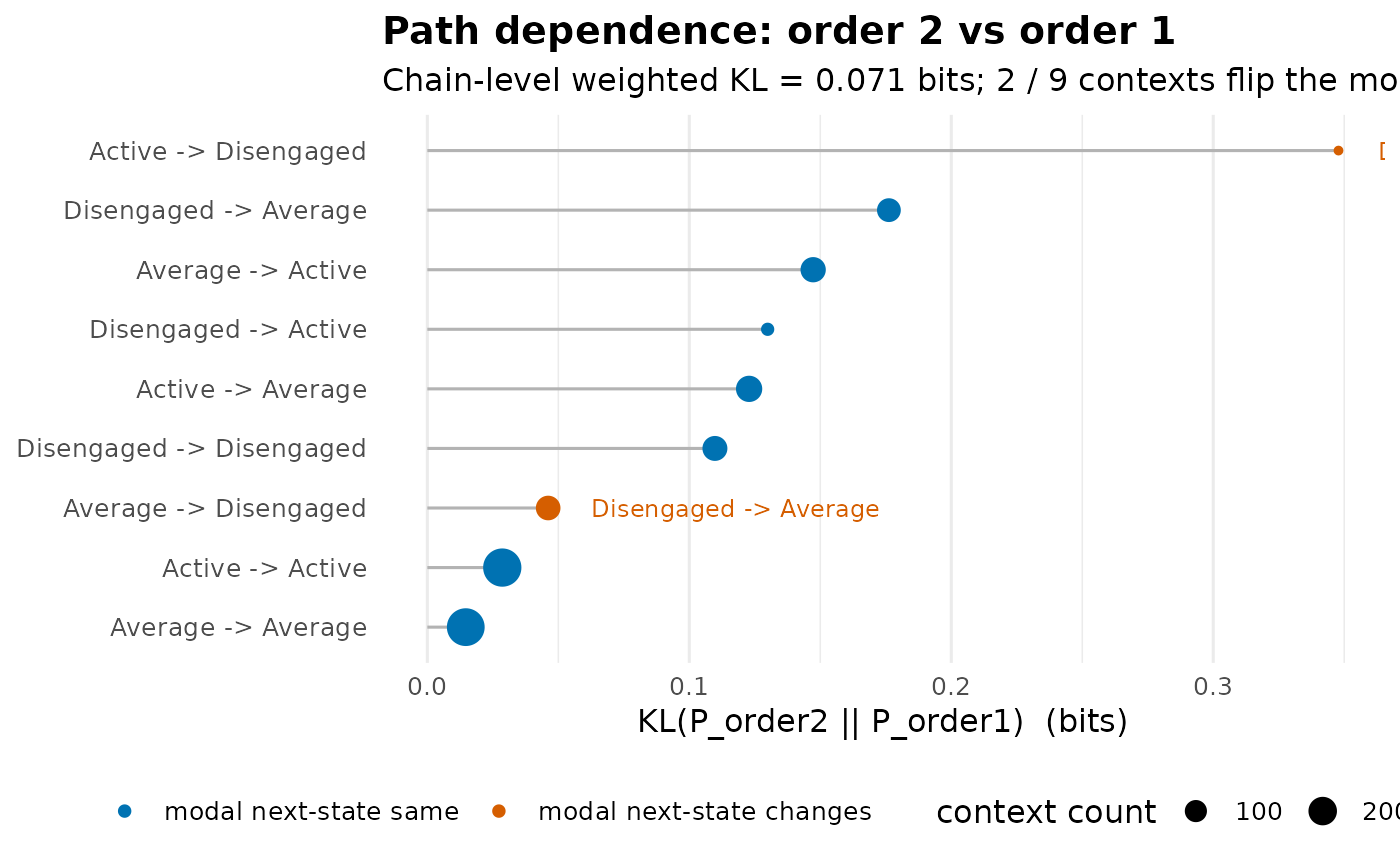
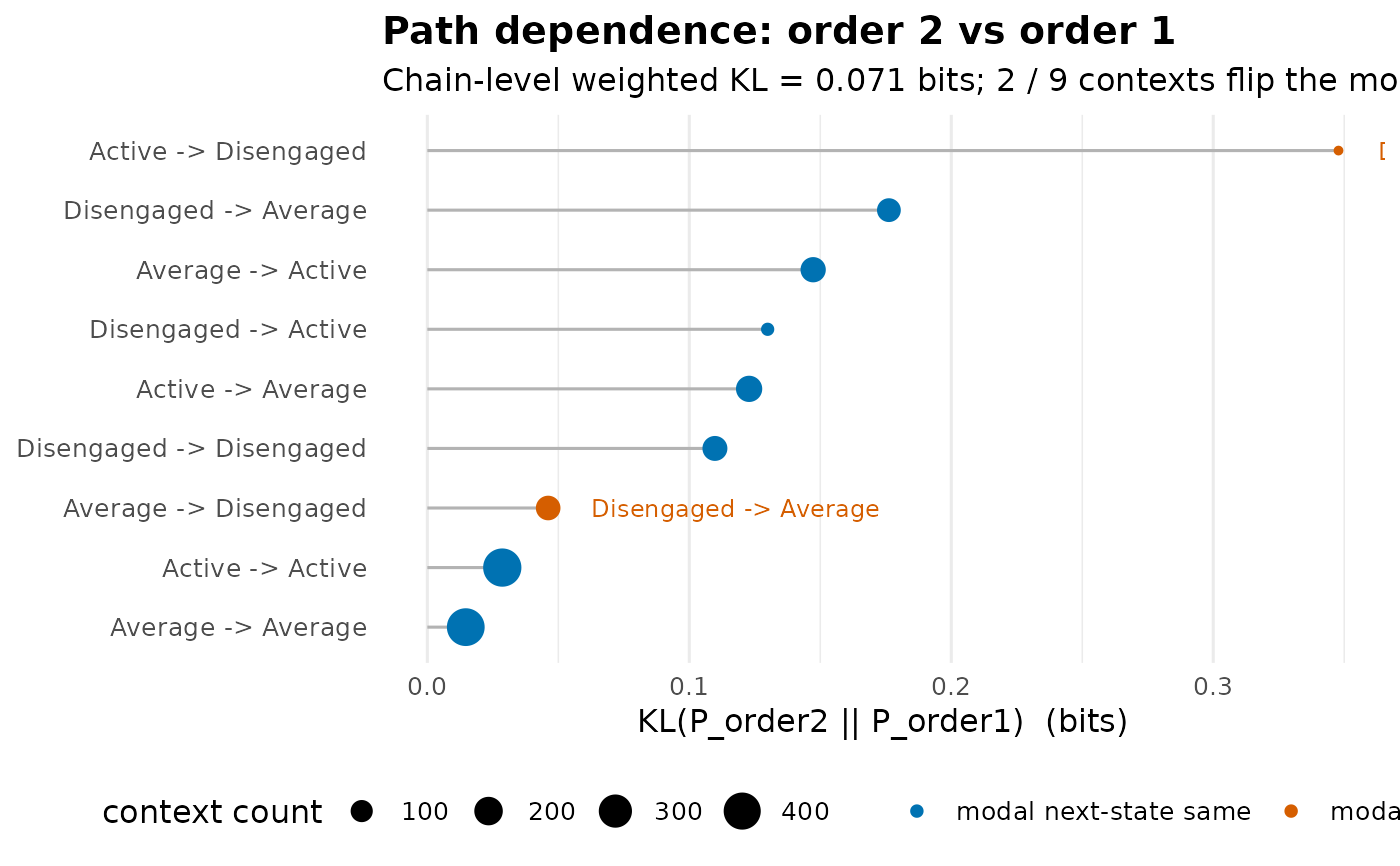
Deploying to gh-pages from @ mohsaqr/Nestimate@1bd6695195da9ab3795ea179bbce8c204ecab844 🚀

Changed region(s): [[0.0614, 0.9042, 0.6143, 0.9665], [0.645, 0.9042, 1.0, 0.9665]]

diff --git a/reference/sequence_plot.html b/reference/sequence_plot.html
@@ -82,6 +82,7 @@ thin gaps (no dendrogram). Supports grouping via <code>group</code> or a
 <span>  scale <span class="op">=</span> <span class="fu"><a href="https://rdrr.io/r/base/c.html" class="external-link">c</a></span><span class="op">(</span><span class="st">"proportion"</span>, <span class="st">"count"</span><span class="op">)</span>,</span>
 <span>  geom <span class="op">=</span> <span class="fu"><a href="https://rdrr.io/r/base/c.html" class="external-link">c</a></span><span class="op">(</span><span class="st">"area"</span>, <span class="st">"bar"</span><span class="op">)</span>,</span>
 <span>  na <span class="op">=</span> <span class="cn">TRUE</span>,</span>
+<span>  normalize <span class="op">=</span> <span class="cn">FALSE</span>,</span>
 <span>  row_gap <span class="op">=</span> <span class="fl">0</span>,</span>
 <span>  dendrogram_width <span class="op">=</span> <span class="fl">1.2</span>,</span>
 <span>  k <span class="op">=</span> <span class="cn">NULL</span>,</span>
@@ -140,6 +141,16 @@ and <code>$assignments</code>.</p></dd>
 <dt>tna</dt>
 <dd><p>From the tna package. Decodes integer-encoded sequences.</p></dd>
 
+<dt>mcml</dt>
+<dd><p>From <code><a href="build_mcml.html">build_mcml</a></code> (built from sequences).
+Produces a <strong>multichannel</strong> plot: one panel per cluster plus a
+macro <code>Summary</code> panel. <code>type = "heatmap"</code>/<code>"index"</code>
+draw the carpet (each channel's own states solid, other clusters a
+faded wash); <code>type = "distribution"</code> draws the stacked
+distribution (add <code>normalize = TRUE</code> for a TraMineR-style
+<code>seqdplot</code> where each time point sums to 1). Returns a
+<code>ggplot</code> object.</p></dd>
+
 
 </dl></dd>
 
@@ -170,6 +181,13 @@ one facet per group. Index/distribution only. Ignored for heatmap.</p></dd>
 <dt id="arg-scale-geom-na">scale, geom, na<a class="anchor" aria-label="anchor" href="#arg-scale-geom-na"></a></dt>
 <dd><p>Passed to <code><a href="distribution_plot.html">distribution_plot</a></code> when
 <code>type = "distribution"</code>.</p></dd>
+
+
+<dt id="arg-normalize">normalize<a class="anchor" aria-label="anchor" href="#arg-normalize"></a></dt>
+<dd><p><code>mcml</code> + <code>type = "distribution"</code> only. When
+<code>TRUE</code>, each time point is normalised to sum to 1 within its channel
+(TraMineR-style <code>seqdplot</code> composition); when <code>FALSE</code> (default)
+the stack shows prevalence and is capped with an <code>NA</code> band.</p></dd>
 
 
 <dt id="arg-row-gap">row_gap<a class="anchor" aria-label="anchor" href="#arg-row-gap"></a></dt>
@@ -286,12 +304,14 @@ from the device width so the legend looks proportional at 5 in vs
 </dl></div>
     <div class="section level2">
     <h2 id="value">Value<a class="anchor" aria-label="anchor" href="#value"></a></h2>
-    <p>Invisibly, a list describing the plot (shape depends on
-<code>type</code>).</p>
+    <p>For base-graphics types, invisibly a list describing the plot
+(shape depends on <code>type</code>). For an <code>mcml</code> input, a <code>ggplot</code>
+object.</p>
     </div>
     <div class="section level2">
     <h2 id="see-also">See also<a class="anchor" aria-label="anchor" href="#see-also"></a></h2>
-    <div class="dont-index"><p><code><a href="distribution_plot.html">distribution_plot</a></code>, <code><a href="build_clusters.html">build_clusters</a></code></p></div>
+    <div class="dont-index"><p><code><a href="distribution_plot.html">distribution_plot</a></code>, <code><a href="build_clusters.html">build_clusters</a></code>,
+<code><a href="build_mcml.html">build_mcml</a></code></p></div>
     </div>
 
     <div class="section level2">
@@ -303,6 +323,20 @@ from the device width so the legend looks proportional at 5 in vs
 <span class="r-plt img"><img src="sequence_plot-2.png" alt="" width="700" height="433"></span>
 <span class="r-in"><span><span class="fu">sequence_plot</span><span class="op">(</span><span class="va">trajectories</span>, type <span class="op">=</span> <span class="st">"distribution"</span><span class="op">)</span></span></span>
 <span class="r-plt img"><img src="sequence_plot-3.png" alt="" width="700" height="433"></span>
+<span class="r-in"><span></span></span>
+<span class="r-in"><span><span class="co"># Multichannel MCML view: one channel per cluster + a macro Summary.</span></span></span>
+<span class="r-in"><span><span class="va">fit</span> <span class="op">&lt;-</span> <span class="fu"><a href="build_mcml.html">build_mcml</a></span><span class="op">(</span></span></span>
+<span class="r-in"><span>  <span class="va">group_regulation_long</span>,</span></span>
+<span class="r-in"><span>  clusters <span class="op">=</span> <span class="fu"><a href="https://rdrr.io/r/base/list.html" class="external-link">list</a></span><span class="op">(</span>Cognitive  <span class="op">=</span> <span class="fu"><a href="https://rdrr.io/r/base/c.html" class="external-link">c</a></span><span class="op">(</span><span class="st">"discuss"</span>, <span class="st">"synthesis"</span>, <span class="st">"consensus"</span>, <span class="st">"cohesion"</span><span class="op">)</span>,</span></span>
+<span class="r-in"><span>                  Regulation <span class="op">=</span> <span class="fu"><a href="https://rdrr.io/r/base/c.html" class="external-link">c</a></span><span class="op">(</span><span class="st">"plan"</span>, <span class="st">"monitor"</span>, <span class="st">"adapt"</span>, <span class="st">"coregulate"</span><span class="op">)</span>,</span></span>
+<span class="r-in"><span>                  Affective  <span class="op">=</span> <span class="st">"emotion"</span><span class="op">)</span>,</span></span>
+<span class="r-in"><span>  actor <span class="op">=</span> <span class="st">"Actor"</span>, action <span class="op">=</span> <span class="st">"Action"</span>, time <span class="op">=</span> <span class="st">"Time"</span><span class="op">)</span></span></span>
+<span class="r-in"><span><span class="fu">sequence_plot</span><span class="op">(</span><span class="va">fit</span><span class="op">)</span>                                          <span class="co"># multichannel carpet</span></span></span>
+<span class="r-plt img"><img src="sequence_plot-4.png" alt="" width="700" height="433"></span>
+<span class="r-in"><span><span class="fu">sequence_plot</span><span class="op">(</span><span class="va">fit</span>, type <span class="op">=</span> <span class="st">"distribution"</span><span class="op">)</span>                  <span class="co"># prevalence + NA band</span></span></span>
+<span class="r-plt img"><img src="sequence_plot-5.png" alt="" width="700" height="433"></span>
+<span class="r-in"><span><span class="fu">sequence_plot</span><span class="op">(</span><span class="va">fit</span>, type <span class="op">=</span> <span class="st">"distribution"</span>, normalize <span class="op">=</span> <span class="cn">TRUE</span><span class="op">)</span> <span class="co"># seqdplot (sums to 1)</span></span></span>
+<span class="r-plt img"><img src="sequence_plot-6.png" alt="" width="700" height="433"></span>
 <span class="r-in"><span><span class="co"># }</span></span></span>
 </code></pre></div>
     </div>

diff --git a/news/index.html b/news/index.html
@@ -50,8 +50,8 @@
 </ul></div>
 <div class="section level3">
 <h3 id="enhancements-0-7-3">Enhancements<a class="anchor" aria-label="anchor" href="#enhancements-0-7-3"></a></h3>
-<ul><li>
-<code><a href="../reference/bayes_compare.html">bayes_compare()</a></code> results are now 100% compatible with the <code><a href="../reference/permutation.html">permutation()</a></code> format: the object carries class <code>c("net_bayes", "net_permutation")</code> with all <code>net_permutation</code> slots (<code>diff_sig</code>, <code>p_values</code>, <code>effect_size</code>, <code>iter</code>, <code>alpha</code>, <code>paired</code>, <code>adjust</code>), and its <code>summary</code> is a superset of <code>summary.net_permutation</code> (<code>from, to, weight_x, weight_y, diff, effect_size, p_value, sig</code> plus the Bayesian extras <code>count_x, count_y, ci_lower, ci_upper, ci_width, pd</code>). A <code><a href="../reference/bayes_compare.html">bayes_compare()</a></code> result is now a drop-in wherever a <code>net_permutation</code> is consumed.</li>
+<ul><li><p><code><a href="../reference/sequence_plot.html">sequence_plot()</a></code> gains a multichannel view for <code>mcml</code> objects built from sequences. <code>sequence_plot(fit)</code> draws one carpet panel per cluster channel plus a macro <code>Summary</code> panel — each channel’s own states solid, the other clusters a faded wash, finished cells white, rows aligned by the macro sequence. <code>sequence_plot(fit, type = "distribution")</code> stacks the prevalence (own states + faded other clusters + an explicit <code>NA</code> band, to 100%), and <code>normalize = TRUE</code> gives a TraMineR-style <code>seqdplot</code> where each time point sums to 1. ggplot-based and dependency-free; returns a <code>ggplot</code> object.</p></li>
+<li><p><code><a href="../reference/bayes_compare.html">bayes_compare()</a></code> results are now 100% compatible with the <code><a href="../reference/permutation.html">permutation()</a></code> format: the object carries class <code>c("net_bayes", "net_permutation")</code> with all <code>net_permutation</code> slots (<code>diff_sig</code>, <code>p_values</code>, <code>effect_size</code>, <code>iter</code>, <code>alpha</code>, <code>paired</code>, <code>adjust</code>), and its <code>summary</code> is a superset of <code>summary.net_permutation</code> (<code>from, to, weight_x, weight_y, diff, effect_size, p_value, sig</code> plus the Bayesian extras <code>count_x, count_y, ci_lower, ci_upper, ci_width, pd</code>). A <code><a href="../reference/bayes_compare.html">bayes_compare()</a></code> result is now a drop-in wherever a <code>net_permutation</code> is consumed.</p></li>
 </ul></div>
 </div>
     <div class="section level2">
@@ -208,7 +208,7 @@
 </ul></div>
 <div class="section level3">
 <h3 id="testing-infrastructure-0-4-4">Testing infrastructure<a class="anchor" aria-label="anchor" href="#testing-infrastructure-0-4-4"></a></h3>
-<ul><li>New numerical-equivalence tests (gated by <code>NESTIMATE_EQUIV_TESTS=true</code>): <code>test-equiv-permutation.R</code> (vs. <code><a href="https://rdrr.io/r/stats/p.adjust.html" class="external-link">stats::p.adjust</a></code> + hand-coded base-R permutation loop), <code>test-equiv-mlvar.R</code> (vs. <code><a href="https://rdrr.io/pkg/mlVAR/man/mlVAR.html" class="external-link">mlVAR::mlVAR</a></code> at machine precision), <code>test-equiv-association-rules.R</code> (vs. <code><a href="https://rdrr.io/pkg/arules/man/apriori.html" class="external-link">arules::apriori</a></code>), <code>test-equiv-link-prediction.R</code> (vs. clean-room matrix algebra + <code><a href="https://r.igraph.org/reference/similarity.html" class="external-link">igraph::similarity</a></code>), <code>test-equiv-centrality-stability.R</code> (vs. <code><a href="https://rdrr.io/pkg/bootnet/man/corStability.html" class="external-link">bootnet::corStability</a></code>). Total ~162k per-value comparisons; all within machine precision except centrality-stability which uses a documented drop-grid tolerance because bootnet uses <code>igraph</code> path-based centrality and Nestimate uses Floyd-Warshall.</li>
+<ul><li>New numerical-equivalence tests (gated by <code>NESTIMATE_EQUIV_TESTS=true</code>): <code>test-equiv-permutation.R</code> (vs. <code><a href="https://rdrr.io/r/stats/p.adjust.html" class="external-link">stats::p.adjust</a></code> + hand-coded base-R permutation loop), <code>test-equiv-mlvar.R</code> (vs. <code>mlVAR::mlVAR</code> at machine precision), <code>test-equiv-association-rules.R</code> (vs. <code>arules::apriori</code>), <code>test-equiv-link-prediction.R</code> (vs. clean-room matrix algebra + <code><a href="https://r.igraph.org/reference/similarity.html" class="external-link">igraph::similarity</a></code>), <code>test-equiv-centrality-stability.R</code> (vs. <code>bootnet::corStability</code>). Total ~162k per-value comparisons; all within machine precision except centrality-stability which uses a documented drop-grid tolerance because bootnet uses <code>igraph</code> path-based centrality and Nestimate uses Floyd-Warshall.</li>
 <li>New HON-family equivalence tests under <code>local_testing_and_equivalence/</code> validating HON, HONEM, HYPA, MOGen, and hypergraph against pathpy 2.2.0 (via reticulate), <code>BiasedUrn</code>, <code>RSpectra</code>, and <code>HyperG</code>. Not shipped in the R-package <code>tests/</code> directory; added to <code>.Rbuildignore</code>.</li>
 <li>Branch-matrix coverage added for the four many-mode APIs (<code>wtna</code>, <code>bootstrap_network</code>, <code>build_clusters</code>, <code>sequence_plot</code>) — systematic cross-product tests over all combinations of mode parameters to catch regressions where one branch silently diverges.</li>
 </ul></div>
@@ -244,7 +244,7 @@
 <div class="section level3">
 <h3 id="new-functions-0-4-0">New functions<a class="anchor" aria-label="anchor" href="#new-functions-0-4-0"></a></h3>
 <ul><li>
-<code><a href="../reference/build_mlvar.html">build_mlvar()</a></code> — multilevel VAR networks from ESM/EMA panel data. Estimates temporal (directed), contemporaneous (undirected), and between-subjects (undirected) networks matching <code><a href="https://rdrr.io/pkg/mlVAR/man/mlVAR.html" class="external-link">mlVAR::mlVAR()</a></code> at machine precision.</li>
+<code><a href="../reference/build_mlvar.html">build_mlvar()</a></code> — multilevel VAR networks from ESM/EMA panel data. Estimates temporal (directed), contemporaneous (undirected), and between-subjects (undirected) networks matching <code>mlVAR::mlVAR()</code> at machine precision.</li>
 <li>
 <code><a href="../reference/build_mmm.html">build_mmm()</a></code> / <code><a href="../reference/compare_mmm.html">compare_mmm()</a></code> — mixture of Markov models via EM, with BIC/AIC/ICL model selection and optional covariate regression.</li>
 <li>
@@ -256,7 +256,7 @@
 <li>
 <code><a href="../reference/build_simplicial.html">build_simplicial()</a></code>, <code><a href="../reference/persistent_homology.html">persistent_homology()</a></code>, <code><a href="../reference/q_analysis.html">q_analysis()</a></code> — topological analysis of networks via simplicial complexes.</li>
 <li>
-<code><a href="../reference/nct.html">nct()</a></code> — Network Comparison Test matching <code><a href="https://rdrr.io/pkg/NetworkComparisonTest/man/NCT.html" class="external-link">NetworkComparisonTest::NCT()</a></code> at machine precision.</li>
+<code><a href="../reference/nct.html">nct()</a></code> — Network Comparison Test matching <code>NetworkComparisonTest::NCT()</code> at machine precision.</li>
 <li>
 <code><a href="../reference/build_gimme.html">build_gimme()</a></code> — group iterative mean estimation for idiographic networks via lavaan.</li>
 <li>
@@ -284,7 +284,7 @@
 <ul><li>
 <code><a href="../reference/build_clusters.html">build_clusters()</a></code>, <code><a href="../reference/network_reliability.html">network_reliability()</a></code>, <code><a href="../reference/permutation.html">permutation()</a></code>, and <code><a href="../reference/prepare.html">prepare()</a></code> replace earlier internal names for consistency with the <code>build_*</code> naming convention.</li>
 <li>
-<code>mgm</code> estimator added (<code>method = "mgm"</code>) for mixed continuous + categorical data via nodewise lasso, matching <code><a href="https://rdrr.io/pkg/mgm/man/mgm.html" class="external-link">mgm::mgm()</a></code> at machine precision.</li>
+<code>mgm</code> estimator added (<code>method = "mgm"</code>) for mixed continuous + categorical data via nodewise lasso, matching <code>mgm::mgm()</code> at machine precision.</li>
 </ul></div>
 <div class="section level3">
 <h3 id="bug-fixes-0-4-0">Bug fixes<a class="anchor" aria-label="anchor" href="#bug-fixes-0-4-0"></a></h3>

diff --git a/reference/build_mlvar.html b/reference/build_mlvar.html
@@ -100,7 +100,7 @@ tmp/mlvar_equivalence_20seeds.R."><meta property="og:image" content="https://saq
 
     <div class="ref-description section level2">
     <p>Estimates three networks from ESM/EMA panel data, matching
-<code><a href="https://rdrr.io/pkg/mlVAR/man/mlVAR.html" class="external-link">mlVAR::mlVAR()</a></code> with <code>estimator = "lmer"</code>, <code>temporal = "fixed"</code>,
+<code>mlVAR::mlVAR()</code> with <code>estimator = "lmer"</code>, <code>temporal = "fixed"</code>,
 <code>contemporaneous = "fixed"</code> at machine precision: (1) a directed
 temporal network of fixed-effect lagged regression coefficients, (2)
 an undirected contemporaneous network of partial correlations among
@@ -122,7 +122,7 @@ and lmer residual SDs.</p></li>
 <li><p>Between-subjects network:
 <code>cor2pcor(pseudoinverse(forcePositive(D (I - Gamma))))</code>.</p></li>
 </ol><p>Validated to machine precision (max_diff &lt; 1e-10) against
-<code><a href="https://rdrr.io/pkg/mlVAR/man/mlVAR.html" class="external-link">mlVAR::mlVAR()</a></code> on 25 real ESM datasets from <code>openesm</code> and 20 simulated
+<code>mlVAR::mlVAR()</code> on 25 real ESM datasets from <code>openesm</code> and 20 simulated
 configurations (seeds 201-220). See <code>tmp/mlvar_equivalence_real20.R</code> and
 <code>tmp/mlvar_equivalence_20seeds.R</code>.</p>
     </div>

diff --git a/articles/cograph-tutorial-simplicial.html b/articles/cograph-tutorial-simplicial.html
@@ -68,7 +68,7 @@
       <img src="../logo.svg" class="logo" alt=""><h1>Higher-Order Network Analysis with Simplicial Complexes</h1>
       <p class="subtitle">From Transition Networks to Topological Analysis</p>
       <p class="author">Mohammed SaqrSonsoles López-PernasKamila Misiejuk</p>
-      <p class="date">2026-06-21</p>
+      <p class="date">2026-06-25</p>
 
       <small class="dont-index">Source: <a href="https://github.com/mohsaqr/Nestimate/blob/main/vignettes/articles/cograph-tutorial-simplicial.qmd" class="external-link"><code>vignettes/articles/cograph-tutorial-simplicial.qmd</code></a></small>
       <div class="d-none name"><code></code></div>

diff --git a/index.html b/index.html
@@ -325,7 +325,7 @@
 <li>
 <strong>Between-subjects</strong> (undirected) — partial correlations of person means: who differs from whom</li>
 </ul>
-<p>Machine-precision equivalence to <code><a href="https://rdrr.io/pkg/mlVAR/man/mlVAR.html" class="external-link">mlVAR::mlVAR()</a></code> validated across 25 real ESM datasets, runs 1.45× faster.</p>
+<p>Machine-precision equivalence to <code>mlVAR::mlVAR()</code> validated across 25 real ESM datasets, runs 1.45× faster.</p>
 <div class="sourceCode" id="cb6"><pre class="downlit sourceCode r">
 <code class="sourceCode R"><span><span class="fu"><a href="https://rdrr.io/r/utils/data.html" class="external-link">data</a></span><span class="op">(</span><span class="va">chatgpt_srl</span><span class="op">)</span></span>
 <span><span class="va">fit</span> <span class="op">&lt;-</span> <span class="fu"><a href="reference/build_mlvar.html">build_mlvar</a></span><span class="op">(</span><span class="va">chatgpt_srl</span>, vars <span class="op">=</span> <span class="fu"><a href="https://rdrr.io/r/base/c.html" class="external-link">c</a></span><span class="op">(</span><span class="st">"planning"</span>, <span class="st">"monitoring"</span>, <span class="st">"evaluation"</span><span class="op">)</span>,</span>

diff --git a/reference/boot_glasso.html b/reference/boot_glasso.html
@@ -282,7 +282,7 @@ matrices.</p></dd>
 <span class="r-out co"><span class="r-pr">#&gt;</span>     expected_influence:    0.00 [Unstable]</span>
 <span class="r-out co"><span class="r-pr">#&gt;</span> </span>
 <span class="r-out co"><span class="r-pr">#&gt;</span>   Edge differences: 1/15 pairs significantly different</span>
-<span class="r-out co"><span class="r-pr">#&gt;</span>   Timing: 15.0s (bootstrap: 8.8s, case-drop: 6.1s)</span>
+<span class="r-out co"><span class="r-pr">#&gt;</span>   Timing: 16.3s (bootstrap: 9.6s, case-drop: 6.6s)</span>
 <span class="r-in"><span><span class="fu"><a href="https://rdrr.io/r/base/summary.html" class="external-link">summary</a></span><span class="op">(</span><span class="va">boot</span>, type <span class="op">=</span> <span class="st">"edges"</span><span class="op">)</span></span></span>
 <span class="r-out co"><span class="r-pr">#&gt;</span>     edge weight    ci_lower  ci_upper inclusion</span>
 <span class="r-out co"><span class="r-pr">#&gt;</span> 1 A -- B      0 -0.15265878 0.3016131      0.24</span>

diff --git a/reference/nct.html b/reference/nct.html
@@ -139,7 +139,7 @@ the global strength test.</p></dd>
 </dl></div>
     <div class="section level2">
     <h2 id="details">Details<a class="anchor" aria-label="anchor" href="#details"></a></h2>
-    <p>Implementation matches <code><a href="https://rdrr.io/pkg/NetworkComparisonTest/man/NCT.html" class="external-link">NetworkComparisonTest::NCT()</a></code> with defaults
+    <p>Implementation matches <code>NetworkComparisonTest::NCT()</code> with defaults
 <code>abs = TRUE</code>, <code>weighted = TRUE</code>, <code>paired = FALSE</code> at
 machine precision when the same seed is used. The network estimator is
 EBIC-selected glasso applied to a Pearson correlation matrix, with

diff --git a/reference/plot.chain_structure.html b/reference/plot.chain_structure.html
@@ -94,7 +94,7 @@ probability inside each cell. Set <code>FALSE</code> for large state spaces
     <h2 id="details">Details<a class="anchor" aria-label="anchor" href="#details"></a></h2>
     <p>Cell colour encodes <code>P(ever reach j | start at i)</code>. The diagonal
 uses the return-time convention (<code>P(return to j in &gt;= 1 steps)</code>),
-matching <code><a href="https://rdrr.io/pkg/markovchain/man/hittingProbabilities.html" class="external-link">markovchain::hittingProbabilities</a></code>. A non-irreducible chain
+matching <code>markovchain::hittingProbabilities</code>. A non-irreducible chain
 shows zero off-block entries – visual evidence of one-way doors
 between behavioural phases. An absorbing chain shows a column of 1's
 for the absorbing state.</p>

diff --git a/reference/print.boot_glasso.html b/reference/print.boot_glasso.html
@@ -101,7 +101,7 @@
 <span class="r-out co"><span class="r-pr">#&gt;</span>     strength:              0.00 [Unstable]</span>
 <span class="r-out co"><span class="r-pr">#&gt;</span> </span>
 <span class="r-out co"><span class="r-pr">#&gt;</span>   Edge differences: 1/15 pairs significantly different</span>
-<span class="r-out co"><span class="r-pr">#&gt;</span>   Timing: 3.8s (bootstrap: 2.1s, case-drop: 1.6s)</span>
+<span class="r-out co"><span class="r-pr">#&gt;</span>   Timing: 3.4s (bootstrap: 2.1s, case-drop: 1.2s)</span>
 <span class="r-in"><span><span class="co"># }</span></span></span>
 <span class="r-in"><span></span></span>
 </code></pre></div>

diff --git a/reference/sequence_plot.md b/reference/sequence_plot.md
@@ -25,6 +25,7 @@ sequence_plot(
   scale = c("proportion", "count"),
   geom = c("area", "bar"),
   na = TRUE,
+  normalize = FALSE,
   row_gap = 0,
   dendrogram_width = 1.2,
   k = NULL,
@@ -95,6 +96,18 @@ sequence_plot(
 
   :   From the tna package. Decodes integer-encoded sequences.
 
+  mcml
+
+  :   From
+      [`build_mcml`](https://saqr.me/Nestimate/reference/build_mcml.md)
+      (built from sequences). Produces a **multichannel** plot: one
+      panel per cluster plus a macro `Summary` panel.
+      `type = "heatmap"`/`"index"` draw the carpet (each channel's own
+      states solid, other clusters a faded wash);
+      `type = "distribution"` draws the stacked distribution (add
+      `normalize = TRUE` for a TraMineR-style `seqdplot` where each time
+      point sums to 1). Returns a `ggplot` object.
+
 - type:
 
   One of `"heatmap"` (default), `"index"`, or `"distribution"`.
@@ -122,6 +135,13 @@ sequence_plot(
   Passed to
   [`distribution_plot`](https://saqr.me/Nestimate/reference/distribution_plot.md)
   when `type = "distribution"`.
+
+- normalize:
+
+  `mcml` + `type = "distribution"` only. When `TRUE`, each time point is
+  normalised to sum to 1 within its channel (TraMineR-style `seqdplot`
+  composition); when `FALSE` (default) the stack shows prevalence and is
+  capped with an `NA` band.
 
 - row_gap:
 
@@ -235,12 +255,14 @@ sequence_plot(
 
 ## Value
 
-Invisibly, a list describing the plot (shape depends on `type`).
+For base-graphics types, invisibly a list describing the plot (shape
+depends on `type`). For an `mcml` input, a `ggplot` object.
 
 ## See also
 
 [`distribution_plot`](https://saqr.me/Nestimate/reference/distribution_plot.md),
-[`build_clusters`](https://saqr.me/Nestimate/reference/build_clusters.md)
+[`build_clusters`](https://saqr.me/Nestimate/reference/build_clusters.md),
+[`build_mcml`](https://saqr.me/Nestimate/reference/build_mcml.md)
 
 ## Examples
 
@@ -251,6 +273,20 @@ sequence_plot(trajectories)
 sequence_plot(trajectories, type = "index")
 
 sequence_plot(trajectories, type = "distribution")
+
+
+# Multichannel MCML view: one channel per cluster + a macro Summary.
+fit <- build_mcml(
+  group_regulation_long,
+  clusters = list(Cognitive  = c("discuss", "synthesis", "consensus", "cohesion"),
+                  Regulation = c("plan", "monitor", "adapt", "coregulate"),
+                  Affective  = "emotion"),
+  actor = "Actor", action = "Action", time = "Time")
+sequence_plot(fit)                                          # multichannel carpet
+
+sequence_plot(fit, type = "distribution")                  # prevalence + NA band
+
+sequence_plot(fit, type = "distribution", normalize = TRUE) # seqdplot (sums to 1)
 
 # }
 ```

diff --git a/news/index.md b/news/index.md
@@ -18,6 +18,17 @@
 
 ### Enhancements
 
+- [`sequence_plot()`](https://saqr.me/Nestimate/reference/sequence_plot.md)
+  gains a multichannel view for `mcml` objects built from sequences.
+  `sequence_plot(fit)` draws one carpet panel per cluster channel plus a
+  macro `Summary` panel — each channel’s own states solid, the other
+  clusters a faded wash, finished cells white, rows aligned by the macro
+  sequence. `sequence_plot(fit, type = "distribution")` stacks the
+  prevalence (own states + faded other clusters + an explicit `NA` band,
+  to 100%), and `normalize = TRUE` gives a TraMineR-style `seqdplot`
+  where each time point sums to 1. ggplot-based and dependency-free;
+  returns a `ggplot` object.
+
 - [`bayes_compare()`](https://saqr.me/Nestimate/reference/bayes_compare.md)
   results are now 100% compatible with the
   [`permutation()`](https://saqr.me/Nestimate/reference/permutation.md)
@@ -414,13 +425,11 @@ addressed; two deferred pending design decisions on numeric semantics
   `NESTIMATE_EQUIV_TESTS=true`): `test-equiv-permutation.R`
   (vs. [`stats::p.adjust`](https://rdrr.io/r/stats/p.adjust.html) +
   hand-coded base-R permutation loop), `test-equiv-mlvar.R`
-  (vs. [`mlVAR::mlVAR`](https://rdrr.io/pkg/mlVAR/man/mlVAR.html) at
-  machine precision), `test-equiv-association-rules.R` (vs.
-  [`arules::apriori`](https://rdrr.io/pkg/arules/man/apriori.html)),
+  (vs. `mlVAR::mlVAR` at machine precision),
+  `test-equiv-association-rules.R` (vs. `arules::apriori`),
   `test-equiv-link-prediction.R` (vs. clean-room matrix algebra +
   [`igraph::similarity`](https://r.igraph.org/reference/similarity.html)),
-  `test-equiv-centrality-stability.R`
-  (vs. [`bootnet::corStability`](https://rdrr.io/pkg/bootnet/man/corStability.html)).
+  `test-equiv-centrality-stability.R` (vs. `bootnet::corStability`).
   Total ~162k per-value comparisons; all within machine precision except
   centrality-stability which uses a documented drop-grid tolerance
   because bootnet uses `igraph` path-based centrality and Nestimate uses
@@ -476,9 +485,7 @@ CRAN release: 2026-04-20
 - [`build_mlvar()`](https://saqr.me/Nestimate/reference/build_mlvar.md)
   — multilevel VAR networks from ESM/EMA panel data. Estimates temporal
   (directed), contemporaneous (undirected), and between-subjects
-  (undirected) networks matching
-  [`mlVAR::mlVAR()`](https://rdrr.io/pkg/mlVAR/man/mlVAR.html) at
-  machine precision.
+  (undirected) networks matching `mlVAR::mlVAR()` at machine precision.
 - [`build_mmm()`](https://saqr.me/Nestimate/reference/build_mmm.md) /
   [`compare_mmm()`](https://saqr.me/Nestimate/reference/compare_mmm.md)
   — mixture of Markov models via EM, with BIC/AIC/ICL model selection
@@ -499,9 +506,8 @@ CRAN release: 2026-04-20
   [`q_analysis()`](https://saqr.me/Nestimate/reference/q_analysis.md) —
   topological analysis of networks via simplicial complexes.
 - [`nct()`](https://saqr.me/Nestimate/reference/nct.md) — Network
-  Comparison Test matching
-  [`NetworkComparisonTest::NCT()`](https://rdrr.io/pkg/NetworkComparisonTest/man/NCT.html)
-  at machine precision.
+  Comparison Test matching `NetworkComparisonTest::NCT()` at machine
+  precision.
 - [`build_gimme()`](https://saqr.me/Nestimate/reference/build_gimme.md)
   — group iterative mean estimation for idiographic networks via lavaan.
 - [`passage_time()`](https://saqr.me/Nestimate/reference/passage_time.md),
@@ -540,8 +546,7 @@ CRAN release: 2026-04-20
   replace earlier internal names for consistency with the `build_*`
   naming convention.
 - `mgm` estimator added (`method = "mgm"`) for mixed continuous +
-  categorical data via nodewise lasso, matching
-  [`mgm::mgm()`](https://rdrr.io/pkg/mgm/man/mgm.html) at machine
+  categorical data via nodewise lasso, matching `mgm::mgm()` at machine
   precision.
 
 ### Bug fixes

diff --git a/reference/build_mlvar.md b/reference/build_mlvar.md
@@ -1,13 +1,12 @@
 # Build a Multilevel Vector Autoregression (mlVAR) network
 
 Estimates three networks from ESM/EMA panel data, matching
-[`mlVAR::mlVAR()`](https://rdrr.io/pkg/mlVAR/man/mlVAR.html) with
-`estimator = "lmer"`, `temporal = "fixed"`, `contemporaneous = "fixed"`
-at machine precision: (1) a directed temporal network of fixed-effect
-lagged regression coefficients, (2) an undirected contemporaneous
-network of partial correlations among residuals, and (3) an undirected
-between-subjects network of partial correlations derived from the
-person-mean fixed effects.
+`mlVAR::mlVAR()` with `estimator = "lmer"`, `temporal = "fixed"`,
+`contemporaneous = "fixed"` at machine precision: (1) a directed
+temporal network of fixed-effect lagged regression coefficients, (2) an
+undirected contemporaneous network of partial correlations among
+residuals, and (3) an undirected between-subjects network of partial
+correlations derived from the person-mean fixed effects.
 
 \#' @details The algorithm follows mlVAR's lmer pipeline exactly:
 
@@ -33,9 +32,8 @@ person-mean fixed effects.
     `cor2pcor(pseudoinverse(forcePositive(D (I - Gamma))))`.
 
 Validated to machine precision (max_diff \< 1e-10) against
-[`mlVAR::mlVAR()`](https://rdrr.io/pkg/mlVAR/man/mlVAR.html) on 25 real
-ESM datasets from `openesm` and 20 simulated configurations (seeds
-201-220). See `tmp/mlvar_equivalence_real20.R` and
+`mlVAR::mlVAR()` on 25 real ESM datasets from `openesm` and 20 simulated
+configurations (seeds 201-220). See `tmp/mlvar_equivalence_real20.R` and
 `tmp/mlvar_equivalence_20seeds.R`.
 
 ## Usage